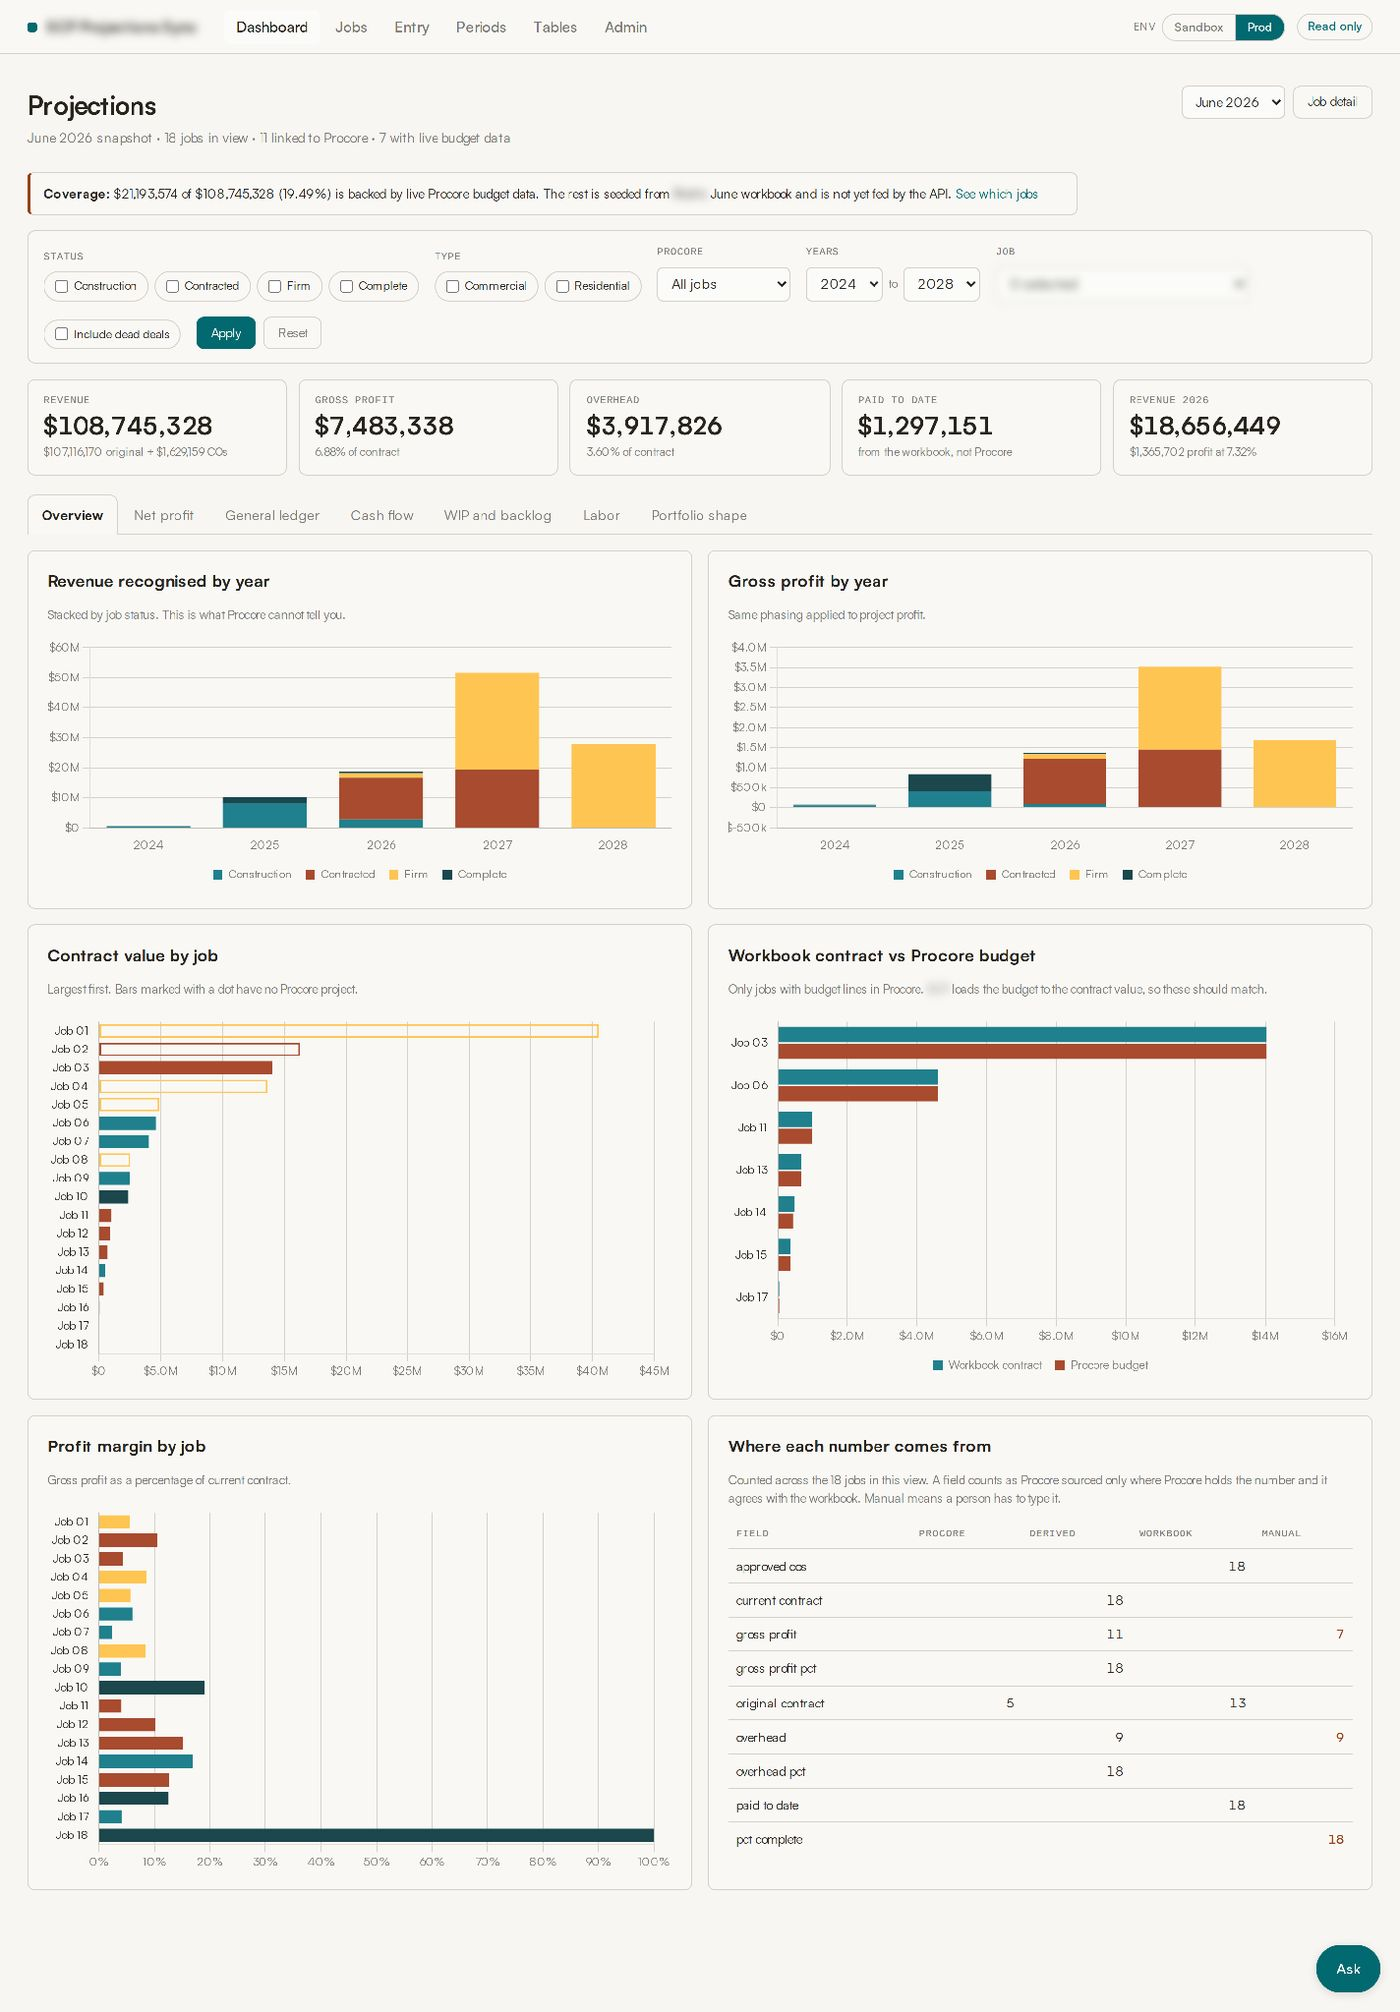
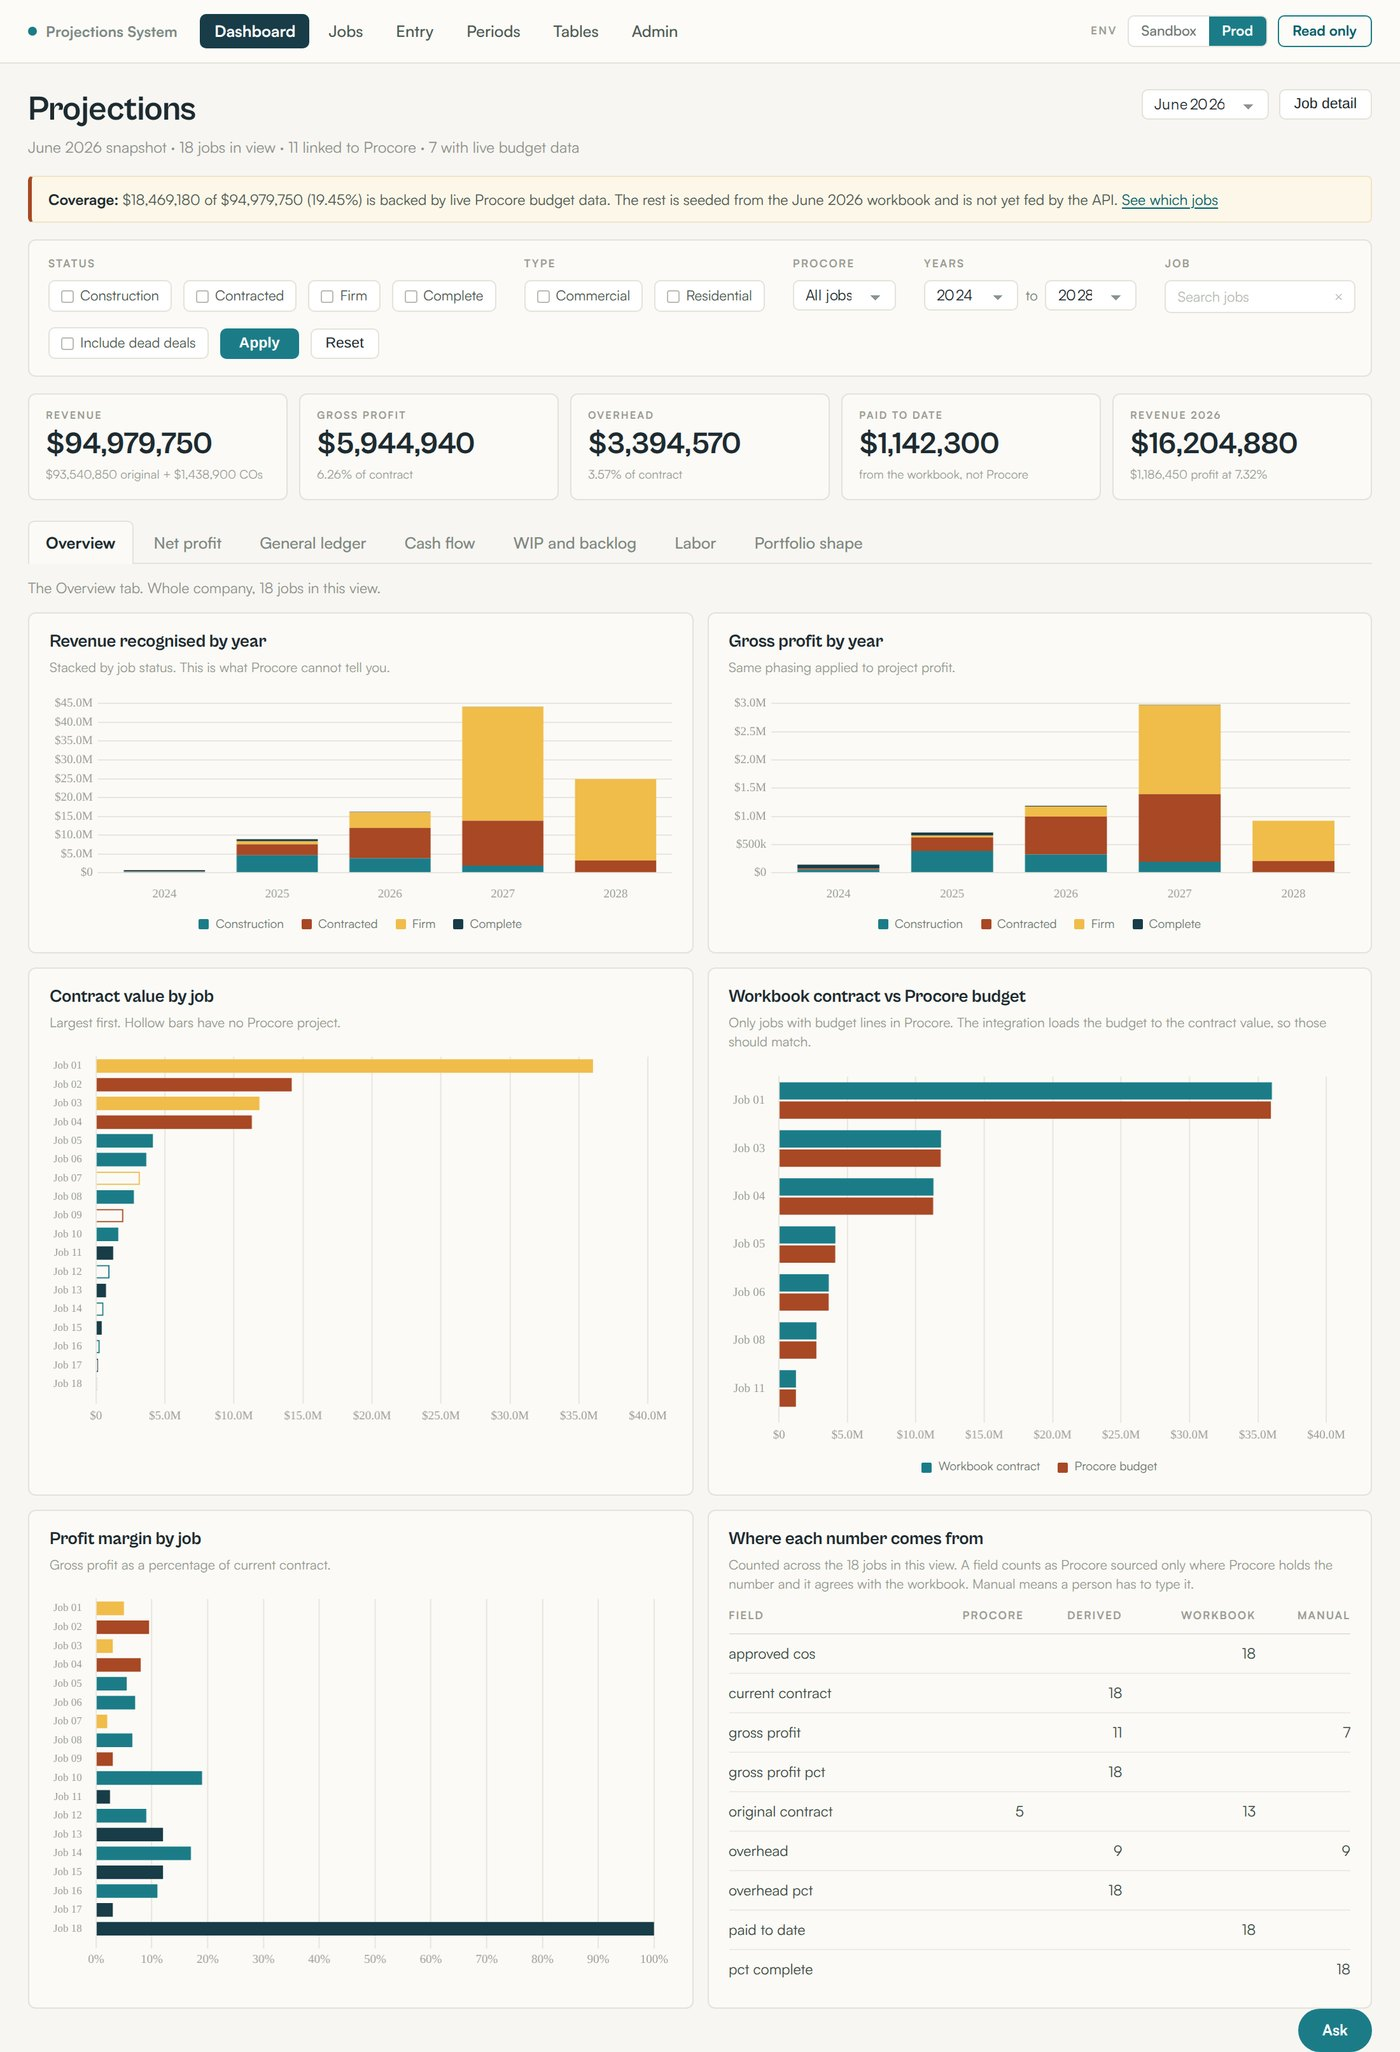
Replace case study dashboard screenshots with de-identified recreations using synthetic financials; update article figures to match

diff --git a/case-studies/replacing-a-spreadsheet-that-ran-a-construction-company/index.html b/case-studies/replacing-a-spreadsheet-that-ran-a-construction-company/index.html
@@ -144,7 +144,7 @@
 
     <figure class="article-figure">
       <img src="../../img/case-studies/wip-backlog.jpg" alt="Work in progress and backlog tab showing monthly backlog burndown from January 2025 to January 2027, contract value still to build at each year end, and cumulative percent complete curves for the eight largest jobs" loading="lazy">
-      <figcaption>The Work in Progress and Backlog tab. The gold cross over August 2026 flags the one month where the individual job rows sum higher than the workbook's own total line.</figcaption>
+      <figcaption>The Work in Progress and Backlog tab. The red cross over December 2026 flags the one month where the individual job rows sum higher than the workbook's own total line.</figcaption>
     </figure>
 
     <p><strong>Labor:</strong> weekly cost by person across 23 weeks, and budget against scheduled work by person and job with the unscheduled remainder in gold. That's exactly the gap a project manager needs to see before it becomes a surprise.</p>
@@ -154,11 +154,11 @@
       <figcaption>The Labor tab. The gold segments in the lower chart are budget dollars with no scheduled week behind them yet, exactly the gap a project manager needs to catch early.</figcaption>
     </figure>
 
-    <p><strong>Portfolio shape:</strong> contract value and gross profit by pipeline status, gross margin plotted against job size on a log scale, and a concentration curve with running total. The margin-versus-job-size chart reveals a pattern that's difficult to see in a standard table: smaller jobs tend to produce wider margins, while larger jobs generally carry thinner margins. The concentration chart ranks jobs by contract value and shows how quickly total value accumulates. The top four jobs account for 77.63% of total contract value, making concentration risk immediately visible instead of requiring manual spreadsheet analysis.</p>
+    <p><strong>Portfolio shape:</strong> contract value and gross profit by pipeline status, gross margin plotted against job size on a log scale, and a concentration curve with running total. The margin-versus-job-size chart reveals a pattern that's difficult to see in a standard table: smaller jobs tend to produce wider margins, while larger jobs generally carry thinner margins. The concentration chart ranks jobs by contract value and shows how quickly total value accumulates. The top four jobs account for 77.21% of total contract value, making concentration risk immediately visible instead of requiring manual spreadsheet analysis.</p>
 
     <figure class="article-figure">
       <img src="../../img/case-studies/portfolio-shape.jpg" alt="Portfolio shape tab showing contract value and gross profit by pipeline status, gross margin plotted against job size on a log scale, and a concentration of contract value chart with a running total line" loading="lazy">
-      <figcaption>The Portfolio Shape tab. The concentration chart at the bottom shows the top four jobs account for 77.63% of total contract value, a risk that's invisible in a flat spreadsheet.</figcaption>
+      <figcaption>The Portfolio Shape tab. The concentration chart at the bottom shows the top four jobs account for 77.21% of total contract value, a risk that's invisible in a flat spreadsheet.</figcaption>
     </figure>
 
     <h3>3. Data entry that replaces the workbook, not just mirrors it</h3>
@@ -186,10 +186,10 @@
 
     <figure class="article-figure">
       <img src="../../img/case-studies/ai-assistant.jpg" alt="AI assistant interface answering the question 'When will my biggest cash crunch be for the remainder of this year?' with a month-by-month cash table and an expandable trace showing every SQL query it ran" loading="lazy">
-      <figcaption>The projections assistant answering an unprompted cash flow question. It identified August 2026 as the low point at $148,703, explained July's decline as the key driver, and showed every query it ran to get there.</figcaption>
+      <figcaption>The projections assistant answering an unprompted cash flow question. It identified August 2026 as the low point at $126,940, explained July's decline as the key driver, and showed every query it ran to get there.</figcaption>
     </figure>
 
-    <p>The projections assistant answers questions that were never explicitly built into a report or dashboard. When asked when the biggest cash crunch would occur for the rest of 2026, it identified August 2026 as the low point at $148,703, showed the month-by-month cash position, and identified July's $289,169 decline as the key driver. It determined the forecast window from the data, validated the relevant cash-flow fields, and showed every SQL query, result count, and timing in an expandable trace. It also clearly stated that the answer came from the workbook's cash-flow summary and had not been reconciled to the underlying job-level detail, so the user can see exactly what was used and what remains unverified.</p>
+    <p>The projections assistant answers questions that were never explicitly built into a report or dashboard. When asked when the biggest cash crunch would occur for the rest of 2026, it identified August 2026 as the low point at $126,940, showed the month-by-month cash position, and identified July's $318,420 decline as the key driver. It determined the forecast window from the data, validated the relevant cash-flow fields, and showed every SQL query, result count, and timing in an expandable trace. It also clearly stated that the answer came from the workbook's cash-flow summary and had not been reconciled to the underlying job-level detail, so the user can see exactly what was used and what remains unverified.</p>
 
     <h2>How I approached it</h2>
     <h3>Reproduce before improving</h3>
